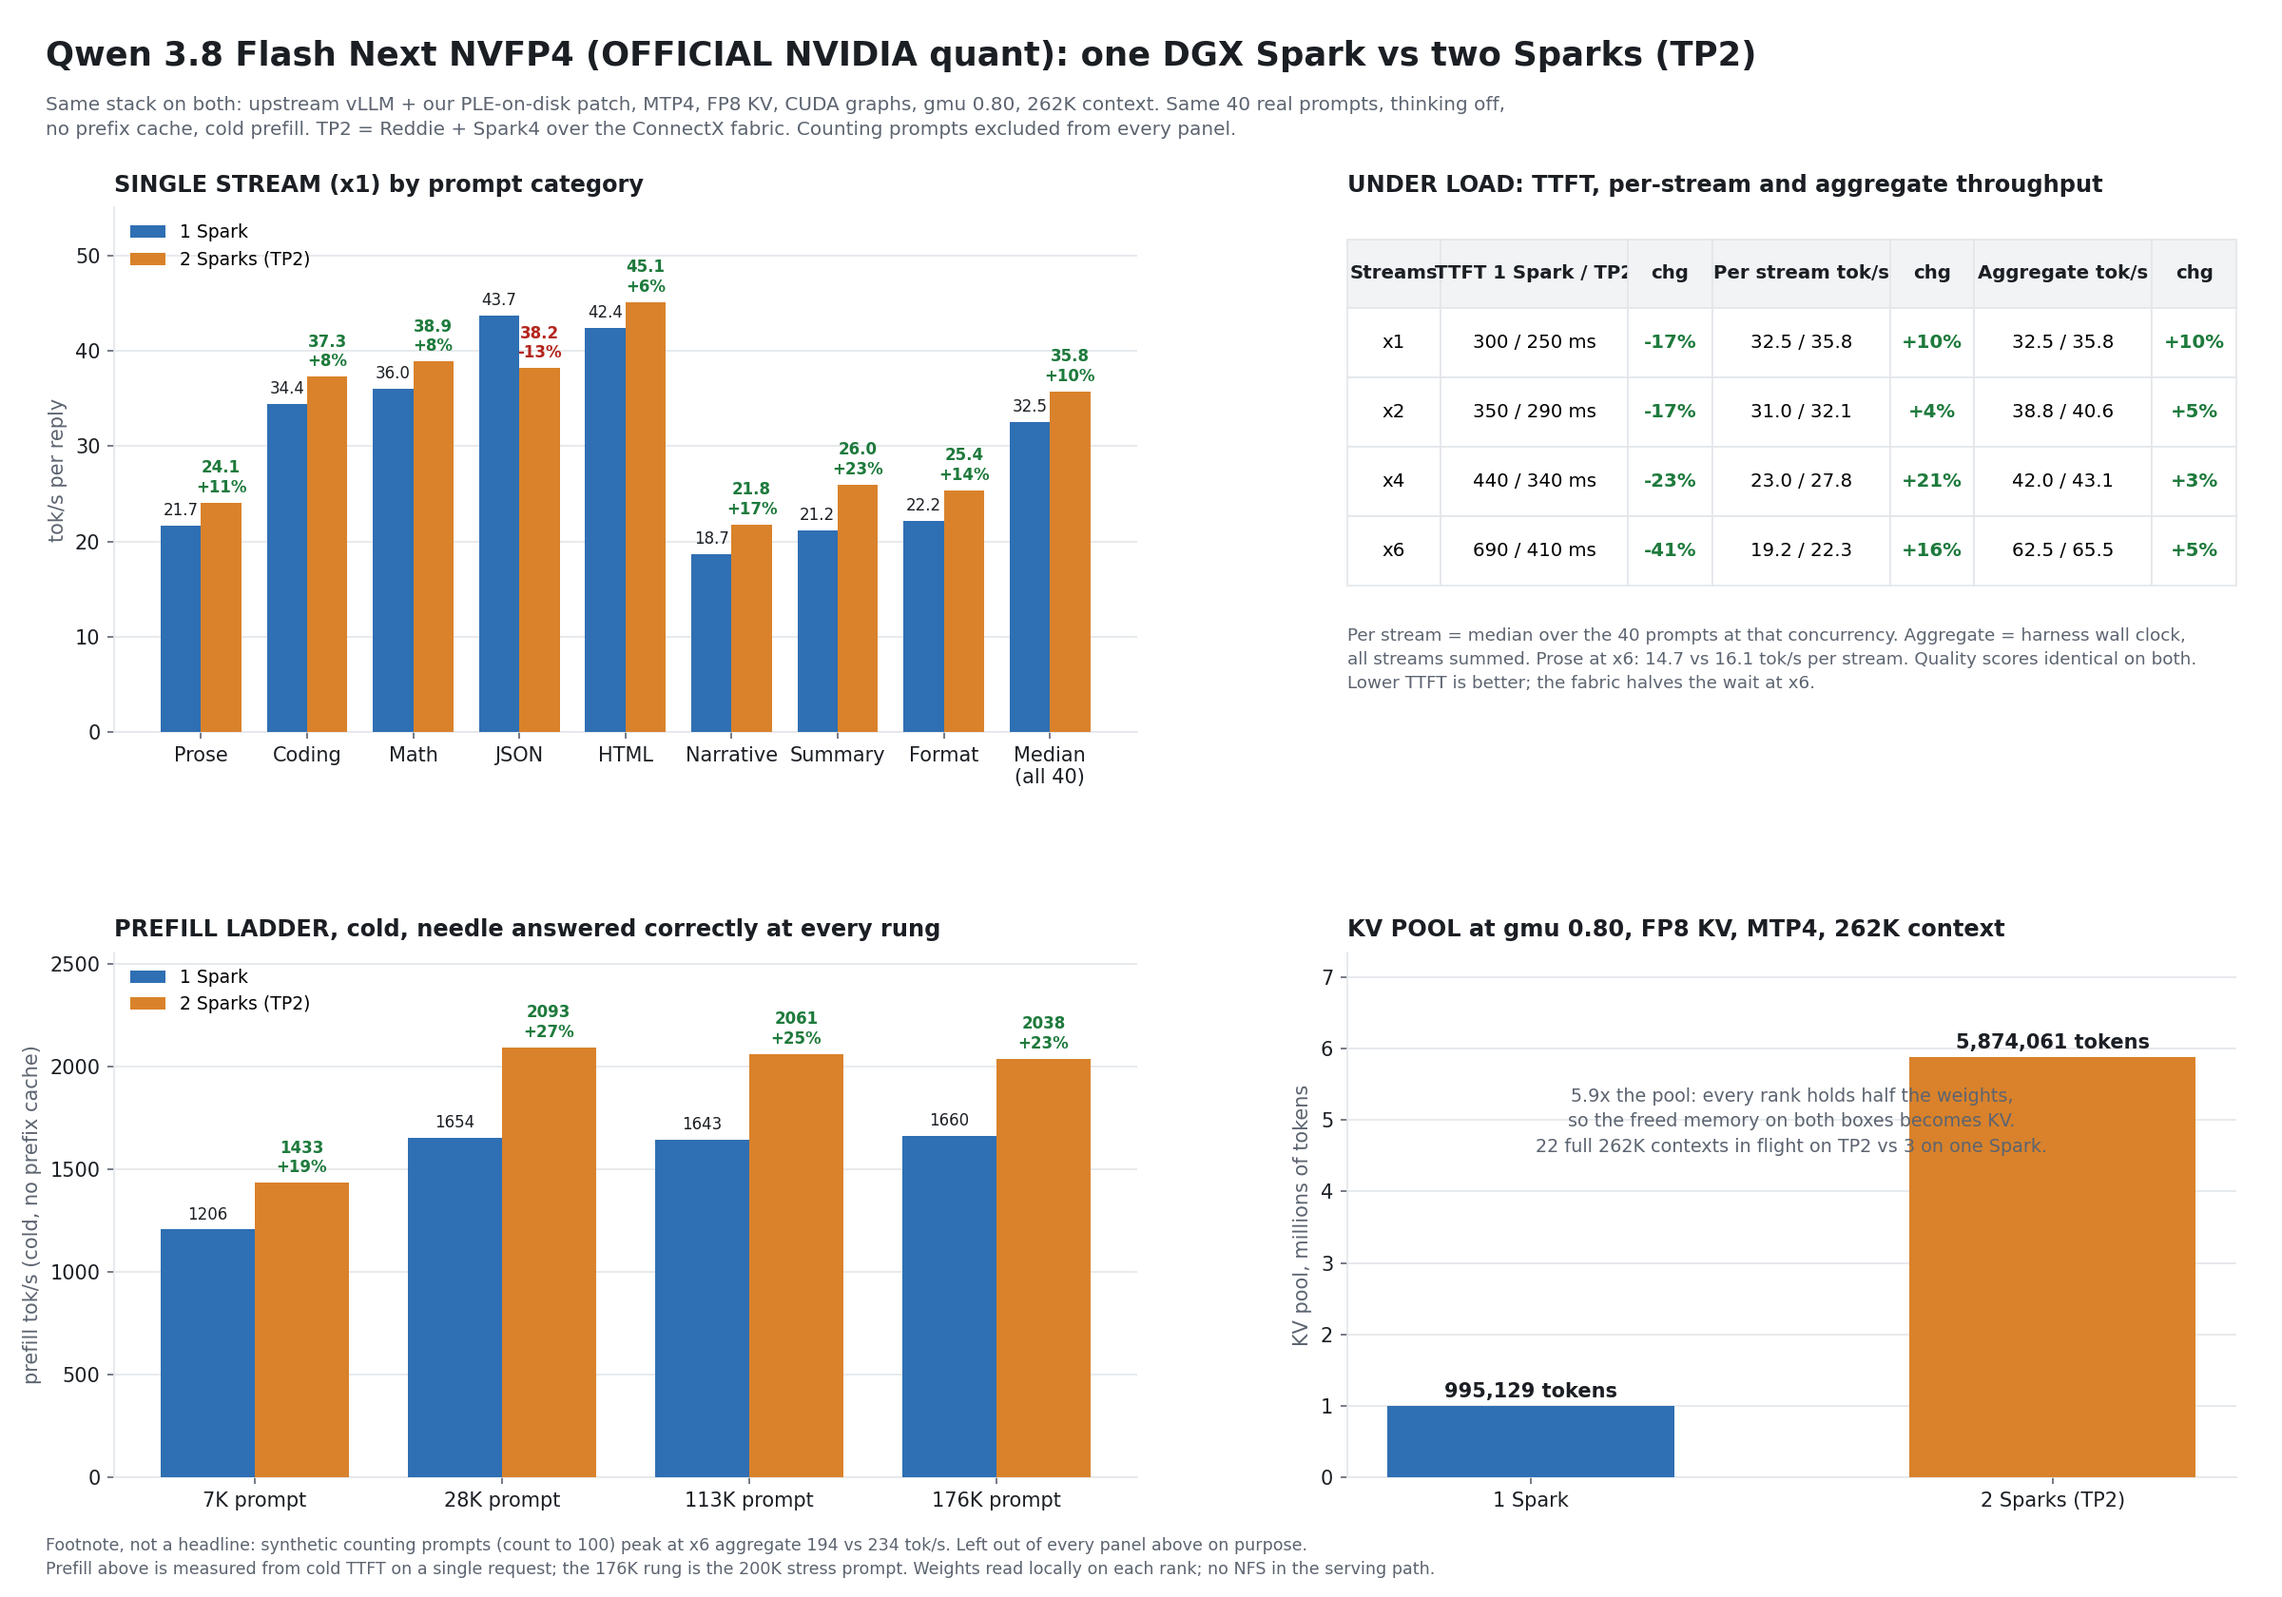
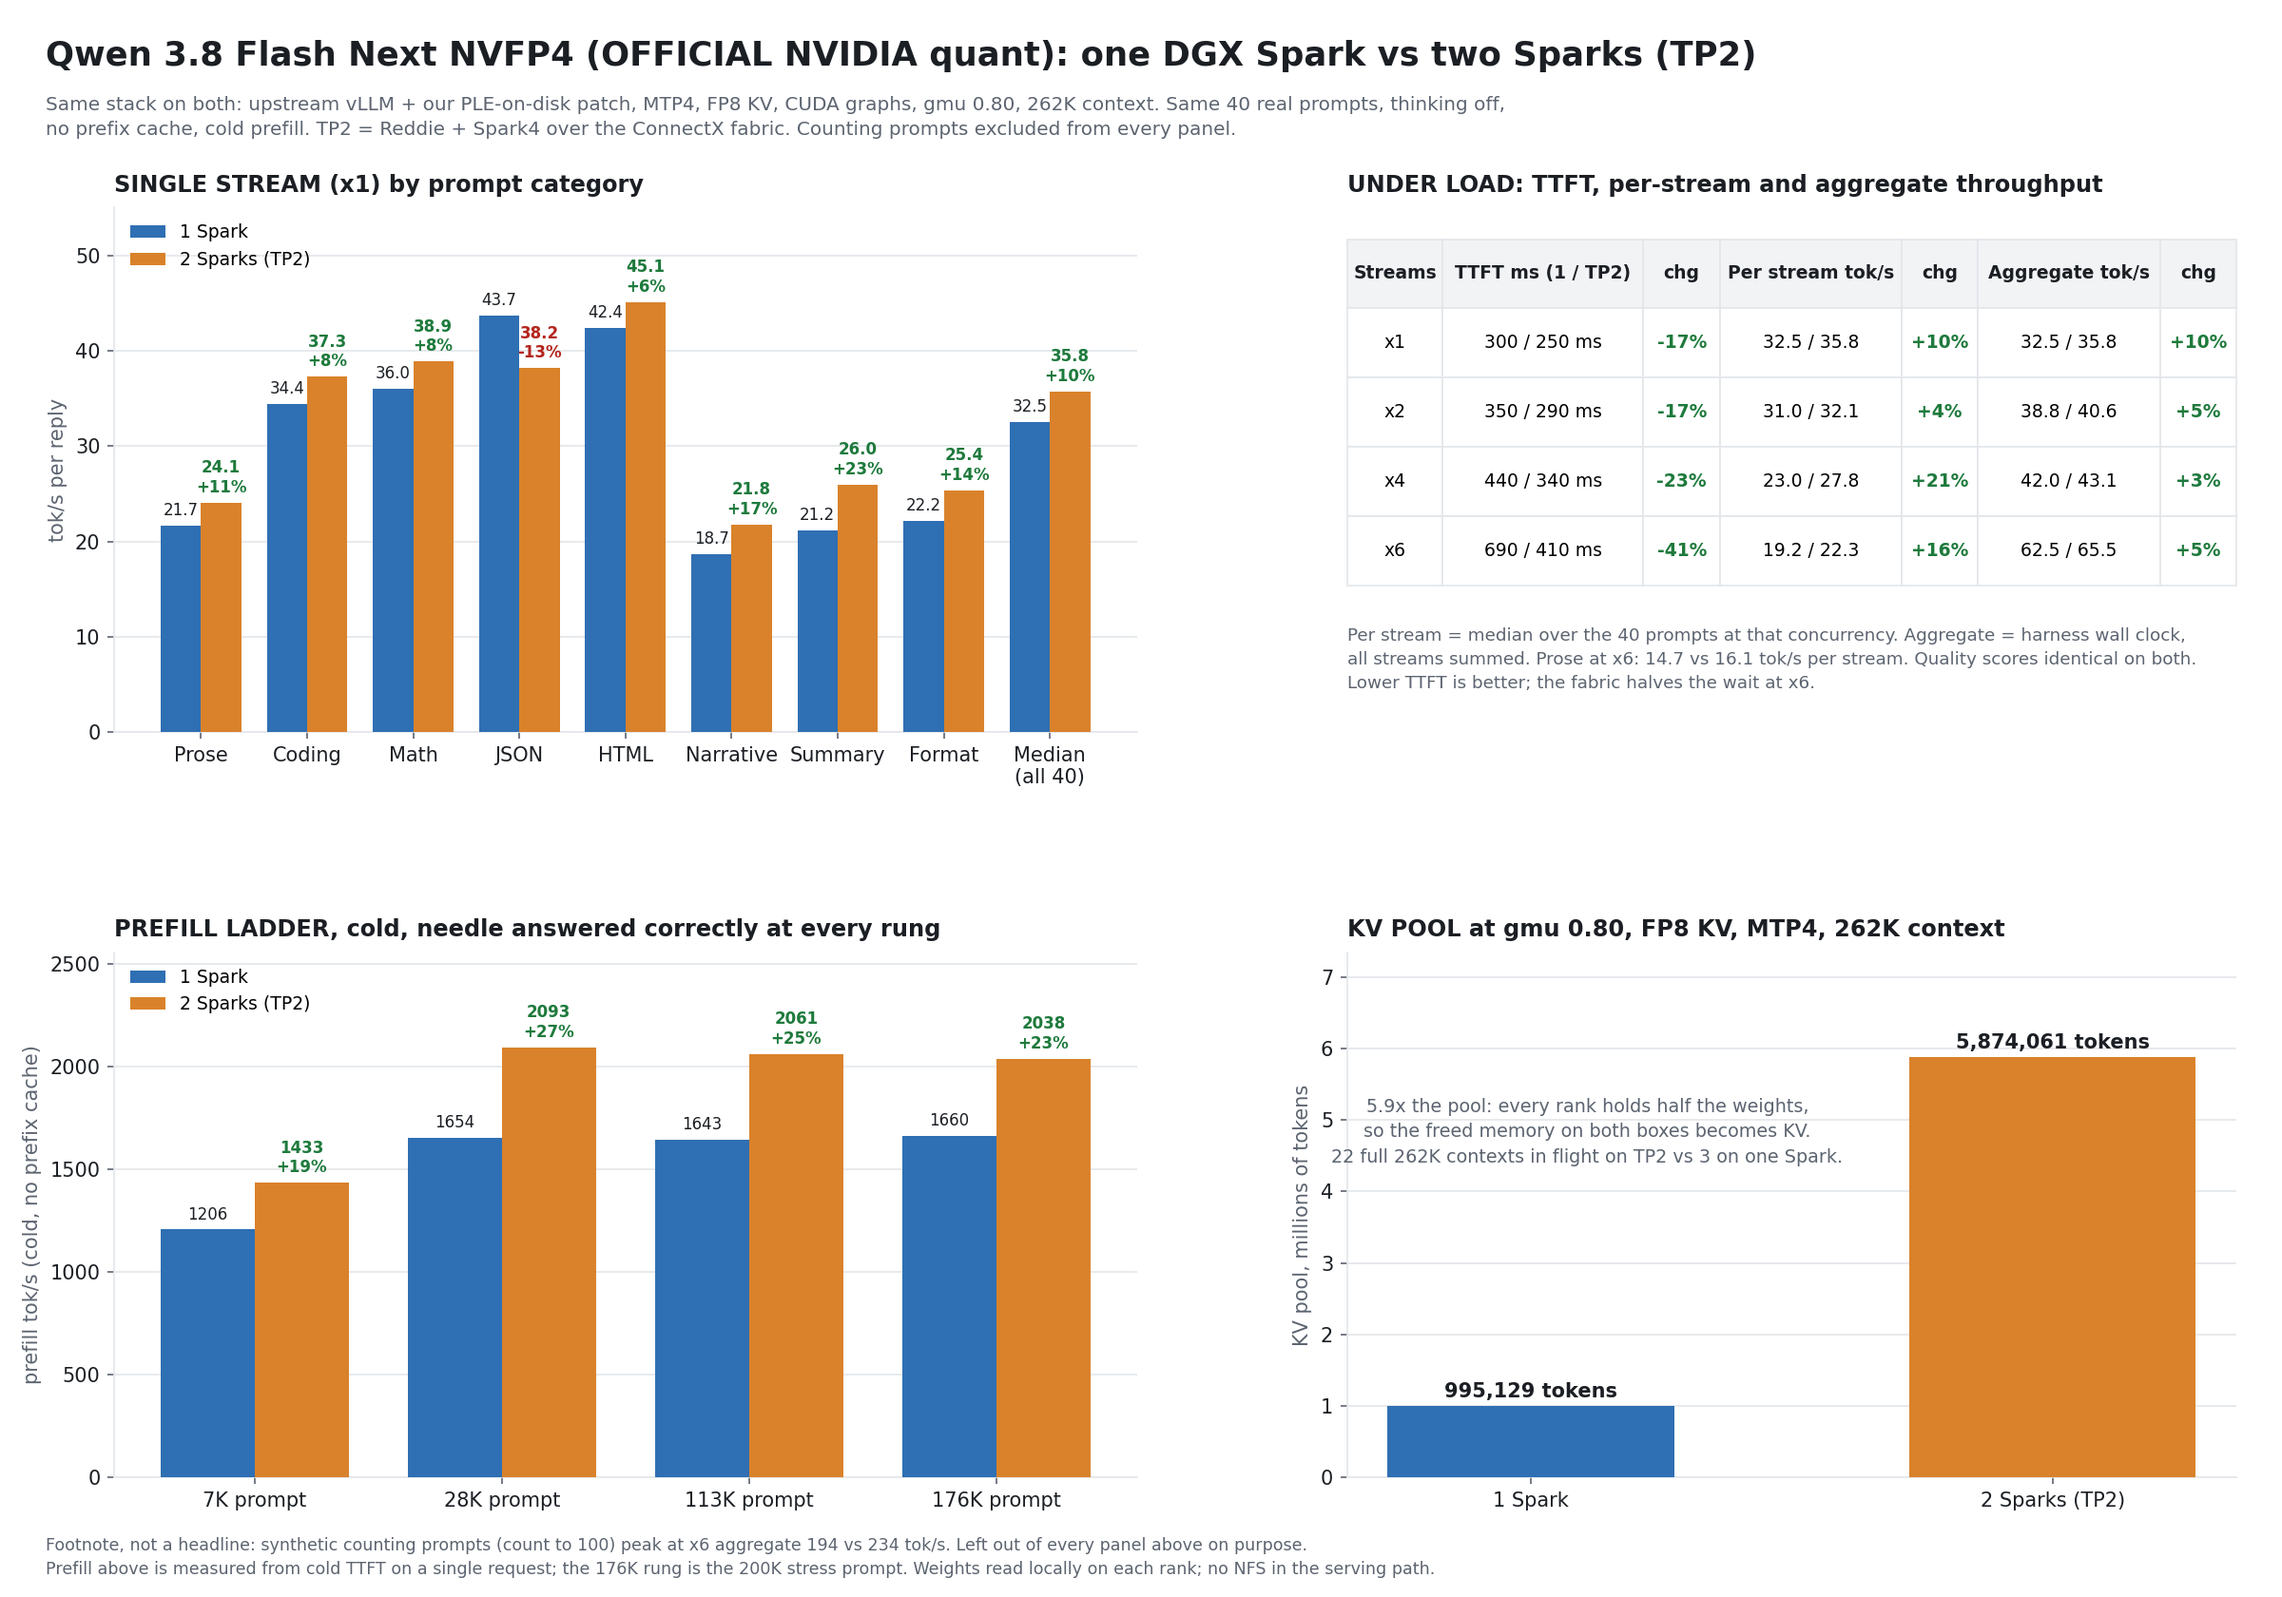
TP2 chart: fix KV caption overlap and table header clipping
Claude-Session: https://claude.ai/code/session_0142pDPCMasdrPVASkqdsC5Y

diff --git a/single-spark-vllm-tp1/tools/make_tp2_charts.py b/single-spark-vllm-tp1/tools/make_tp2_charts.py
@@ -62,9 +62,9 @@ for c in (1, 2, 4, 6):
     tA, tB = A[c]["overall"]["ttft_med_s"]*1000, B[c]["overall"]["ttft_med_s"]*1000
     sA, sB = med(A[c]), med(B[c]); gA, gB = agg(A[c]), agg(B[c])
     rows.append([f"x{c}", f"{tA:.0f} / {tB:.0f} ms", f"{(tB/tA-1)*100:+.0f}%", f"{sA:.1f} / {sB:.1f}", f"{(sB/sA-1)*100:+.0f}%", f"{gA:.1f} / {gB:.1f}", f"{(gB/gA-1)*100:+.0f}%"])
-hdr = ["Streams", "TTFT 1 Spark / TP2", "chg", "Per stream tok/s", "chg", "Aggregate tok/s", "chg"]
-t = ax.table(cellText=rows, colLabels=hdr, loc="upper center", cellLoc="center", colWidths=[0.1, 0.2, 0.09, 0.19, 0.09, 0.19, 0.09], bbox=[0, 0.28, 1, 0.66])
-t.auto_set_font_size(False); t.set_fontsize(9.5)
+hdr = ["Streams", "TTFT ms (1 / TP2)", "chg", "Per stream tok/s", "chg", "Aggregate tok/s", "chg"]
+t = ax.table(cellText=rows, colLabels=hdr, loc="upper center", cellLoc="center", colWidths=[0.1, 0.21, 0.08, 0.19, 0.08, 0.19, 0.08], bbox=[0, 0.28, 1, 0.66])
+t.auto_set_font_size(False); t.set_fontsize(9)
 for (r, cc), cell in t.get_celld().items():
     cell.set_edgecolor(GRID); cell.set_linewidth(0.8)
     if r == 0: cell.set_facecolor("#f1f3f5"); cell.set_text_props(fontweight="bold", color=INK)
@@ -82,7 +82,7 @@ ax.bar([0, 1], [kvA/1e6, kvB/1e6], 0.55, color=[C1, C2], zorder=3)
 for i, v in enumerate((kvA, kvB)): ax.text(i, v/1e6 + 0.12, f"{v:,} tokens", ha="center", fontsize=10, fontweight="bold", color=INK)
 ax.set_xticks([0, 1]); ax.set_xticklabels(["1 Spark", "2 Sparks (TP2)"]); ax.set_ylabel("KV pool, millions of tokens", color=MUT); ax.set_ylim(0, kvB/1e6*1.25)
 ax.set_title("KV POOL at gmu 0.80, FP8 KV, MTP4, 262K context", loc="left", fontsize=11.5, fontweight="bold", color=INK, pad=8); style(ax)
-ax.text(0.5, 0.62, f"{kvB/kvA:.1f}x the pool: every rank holds half the weights,\nso the freed memory on both boxes becomes KV.\n{kvB//262144} full 262K contexts in flight on TP2 vs {kvA//262144} on one Spark.", ha="center", fontsize=9.2, color=MUT, transform=ax.transAxes, linespacing=1.5)
+ax.text(0.27, 0.60, f"{kvB/kvA:.1f}x the pool: every rank holds half the weights,\nso the freed memory on both boxes becomes KV.\n{kvB//262144} full 262K contexts in flight on TP2 vs {kvA//262144} on one Spark.", ha="center", fontsize=9.2, color=MUT, transform=ax.transAxes, linespacing=1.5)
 ca, cb = ceiling(a), ceiling(b)
 foot = "Footnote, not a headline: synthetic counting prompts (count to 100) peak at x6 aggregate " + (f"{ca:.0f} vs {cb:.0f} tok/s" if ca and cb else "n/a") + ". Left out of every panel above on purpose.\nPrefill above is measured from cold TTFT on a single request; the 176K rung is the 200K stress prompt. Weights read locally on each rank; no NFS in the serving path."
 fig.text(0.02, 0.012, foot, fontsize=8.4, color=MUT, va="bottom", linespacing=1.5)
